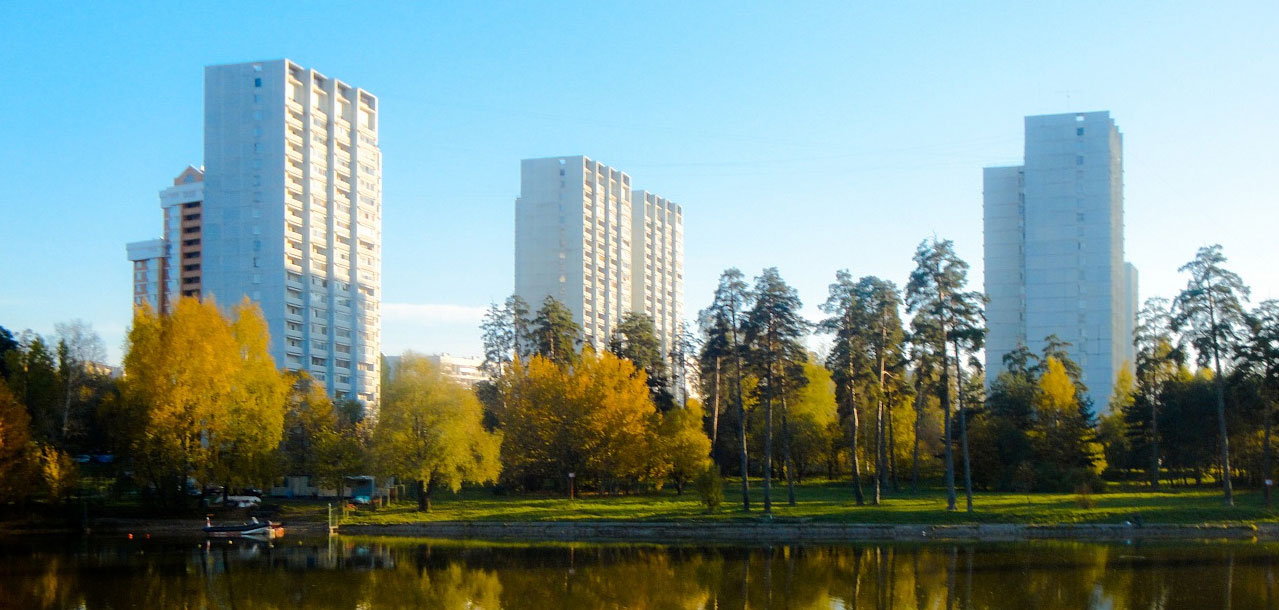
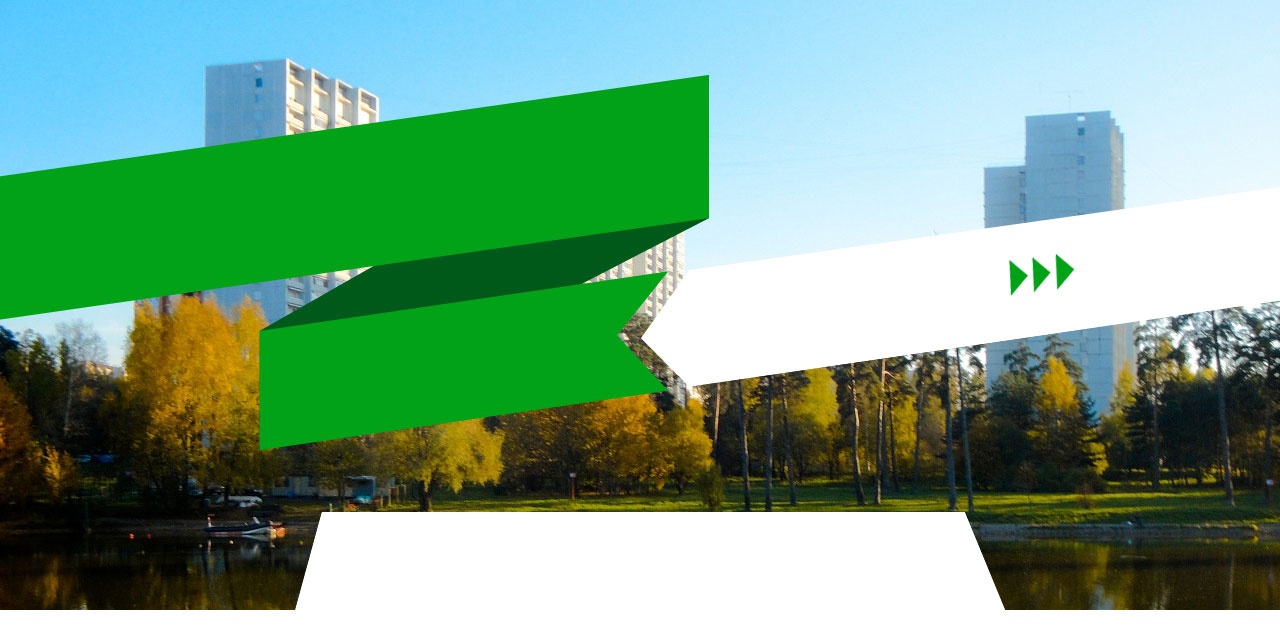
new bg

diff --git a/hm/style.css b/hm/style.css
@@ -25,11 +25,11 @@ header .space {
 header .green-tape {
 	width: 650px;
 	margin-left: 3px;
-	-webkit-transform: rotate(-15deg); /* Для Safari и Chrome */
-    -moz-transform: rotate(-15deg); /* Для Firefox */
-    -o-transform: rotate(-15deg); /* Для Opera */
-    -ms-transform: rotate(-15deg); /* Для IE */
-    transform: rotate(-15deg); /* CSS3 */
+	-webkit-transform: rotate(-8deg); /* Для Safari и Chrome */
+    -moz-transform: rotate(-8deg); /* Для Firefox */
+    -o-transform: rotate(-8deg); /* Для Opera */
+    -ms-transform: rotate(-8deg); /* Для IE */
+    transform: rotate(-8deg); /* CSS3 */
 }	
 
 header .green-tape h1 {
@@ -37,28 +37,11 @@ header .green-tape h1 {
 	padding: 16px 0 10px 100px;
 	font-size: 48px;
 	line-height: .9;
-	background: #01a217;
 	color: white;
+	font-style: italic;
 	letter-spacing: 1px;
-	-webkit-transform: skewX(-15deg);
-    -moz-transform: skewX(-15deg); 
-    -o-transform: skewX(-15deg);
-    -ms-transform: skewX(-15deg); 
-    transform: skewX(-15deg);
-
 }
 
-header .shadow {
-	margin-left: 351px;
-	height: 30px;
-	width: 220px;
-	background: #00591a;
-	-webkit-transform: skewX(-75deg); 
-    -moz-transform: skewX(-75deg); 
-    -o-transform: skewX(-75deg); 
-    -ms-transform: skewX(-75deg); 
-    transform: skewX(-75deg); 
-}
 
 header .green-tape h2 {
 	display: inline-block;
@@ -67,24 +50,7 @@ header .green-tape h2 {
 	padding-left: 40px;
 	font-size: 38px;
 	text-transform: uppercase;
-	background: #01a217;
 	color: white;
-	-webkit-transform: skewX(-15deg); /* Для Safari и Chrome */
-    -moz-transform: skewX(-15deg); /* Для Firefox */
-    -o-transform: skewX(-15deg); /* Для Opera */
-    -ms-transform: skewX(-15deg); /* Для IE */
-    transform: skewX(-15deg); /* CSS3 */
+	font-style: italic;
 }
 
-header .green-tape .triangle-flag-end {
-	display: inline-block;
-	margin-left: 0;
-	width: 50px;
-	height: 50px;
-	background:  #01a217;
-	-webkit-transform: skewX(-15deg);
-    -moz-transform: skewX(-15deg); 
-    -o-transform: skewX(-15deg);
-    -ms-transform: skewX(-15deg); 
-    transform: skewX(-15deg);
-}

diff --git a/hm/index.html b/hm/index.html
@@ -10,8 +10,7 @@
 		<div class="space"></div>
 		<div class="green-tape">
 			<h1>18-й ЗЕЛЕНОГРАДСКИЙ ПОЛУМАРАФОН</h1>
-			<div class="shadow"></div>
-			<h2>25 мая 2014 11:00</h2><div class="triangle-flag-end"></div>
+			<h2>25 мая 2014 11:00</h2>
 		</div>
 		
 	</header>
